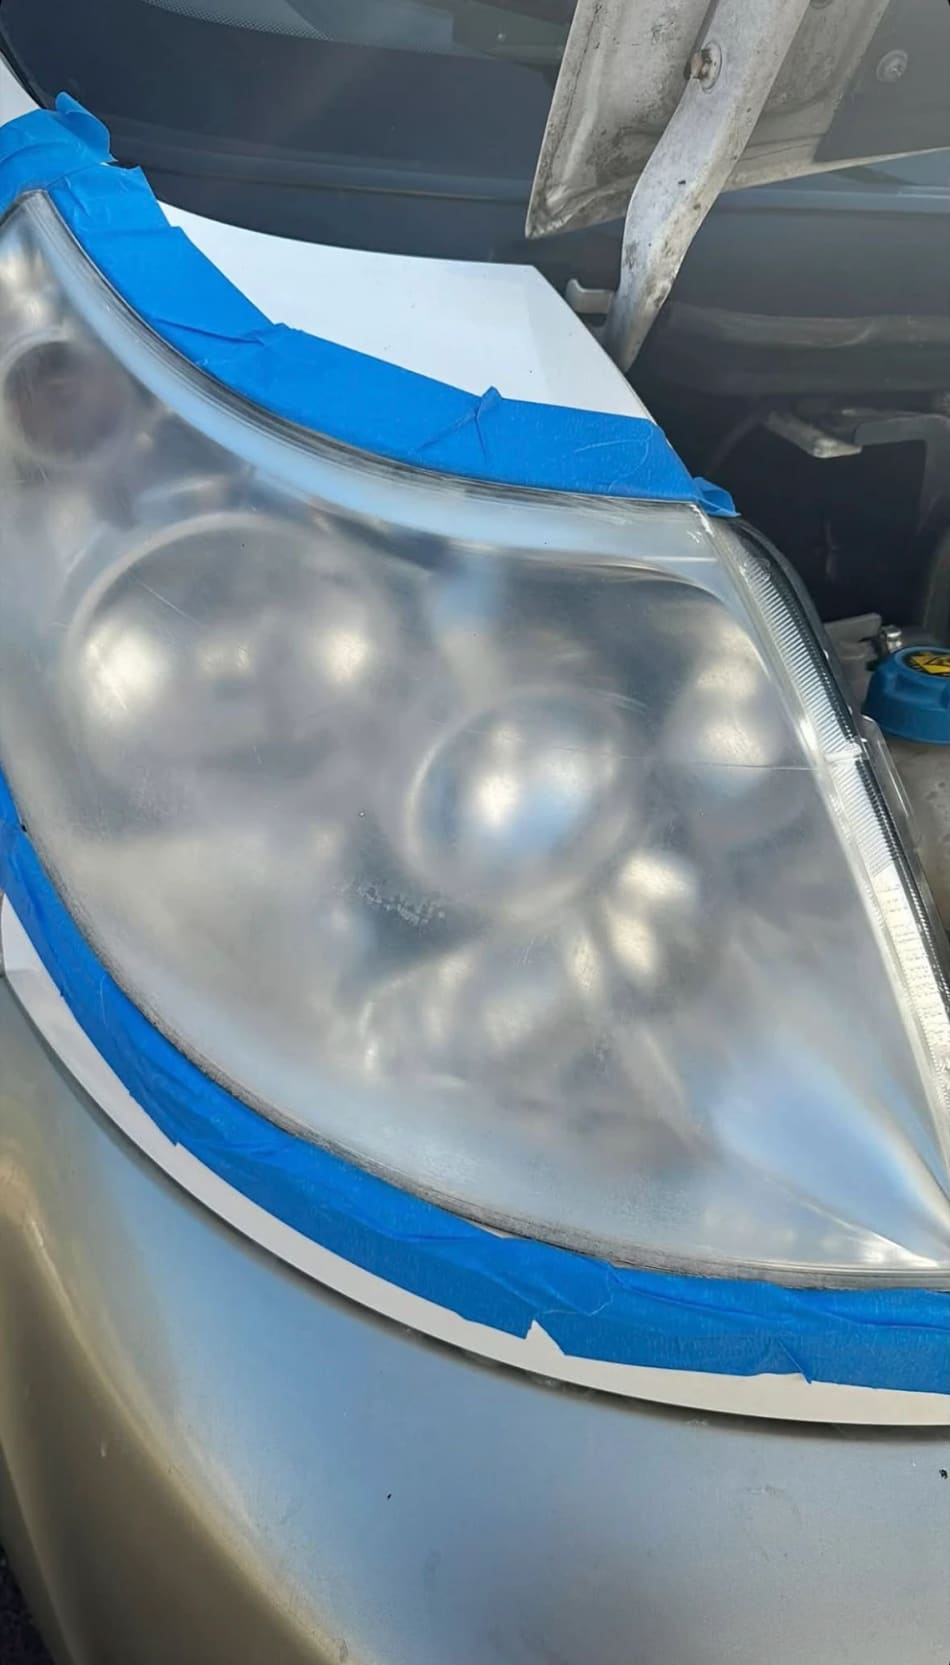
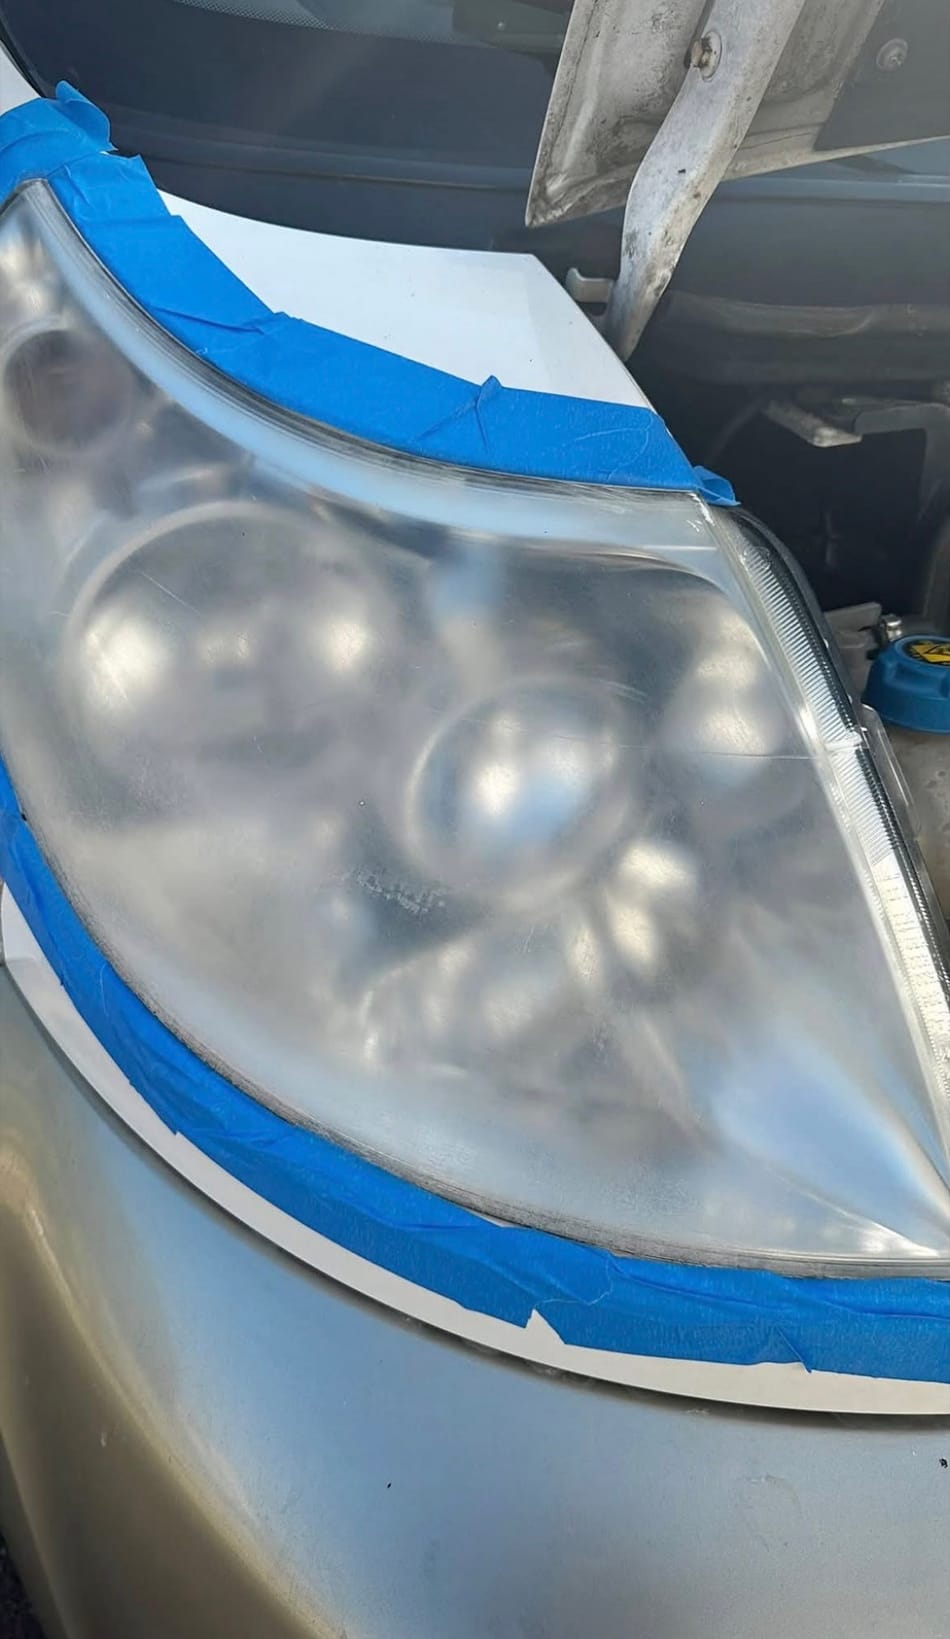
Corrige les paires phares, ajoute la nav rapide et réorganise options/galerie
- Corrige les paires avant/après de la section Phares : Réalisation 1 et 2
  montrent maintenant chacune le même phare avant/après (au lieu de
  véhicules différents), grâce aux nouvelles photos fournies
- Remplace la Toyota Yaris par la Porsche 911 dans la galerie Réalisations
- Ajoute "Rénovation phares" et "Traitement céramique" à la navigation
  (desktop + mobile), qui renvoient vers leurs sections respectives
- La barre d'onglets Avant/Après passe à la ligne (2-4 lignes selon la
  largeur) au lieu de nécessiter un défilement horizontal, pour que tous
  les exemples soient visibles d'un coup d'œil
- Précise que l'exemple "Extérieur 2" est un lustrage
- Déplace "Finitions pneus brillants" des options vers la prestation
  Extérieur (déjà incluse), synchronisé sur index.html et contact.html

diff --git a/index.html b/index.html
@@ -50,6 +50,8 @@
       <a href="#prestations">Prestations</a>
       <a href="#realisations">Réalisations</a>
       <a href="#avant-apres">Avant / Après</a>
+      <a href="#phares">Rénovation phares</a>
+      <a href="#ceramique">Traitement céramique</a>
       <a href="#avis">Avis</a>
       <a href="#tarifs">Tarifs</a>
       <a href="contact.html">Contact</a>
@@ -74,6 +76,8 @@
   <a href="#prestations">Prestations</a>
   <a href="#realisations">Réalisations</a>
   <a href="#avant-apres">Avant / Après</a>
+  <a href="#phares">Rénovation phares</a>
+  <a href="#ceramique">Traitement céramique</a>
   <a href="#avis">Avis</a>
   <a href="#tarifs">Tarifs</a>
   <a href="contact.html">Contact</a>
@@ -147,9 +151,9 @@
         <img src="assets/img/gallery/porsche-911-turbo-s-noir.jpg" alt="Porsche 911 Turbo S noire préparée par MGNclean" style="object-position:center 62%" loading="lazy" />
         <span class="gal-caption"><span><span class="tag">Porsche</span><h4>911 Turbo S</h4></span></span>
       </a>
-      <a class="gal-item" href="https://www.instagram.com/mgnclean44/" target="_blank" rel="noopener" data-cap="Toyota Yaris — nettoyage moteur avant / après.">
-        <img src="assets/img/gallery/toyota-yaris-moteur-avant-apres.jpg" alt="Compartiment moteur d'une Toyota Yaris nettoyé, comparatif avant / après" style="object-position:center 22%" loading="lazy" />
-        <span class="gal-caption"><span><span class="tag">Toyota</span><h4>Yaris — avant / après</h4></span></span>
+      <a class="gal-item" href="https://www.instagram.com/mgnclean44/" target="_blank" rel="noopener" data-cap="Porsche 911 noire préparée par MGNclean, face avant.">
+        <img src="assets/img/gallery/porsche-911-noire-face-avant.jpg" alt="Porsche 911 noire préparée par MGNclean, vue de face" style="object-position:center 55%" loading="lazy" />
+        <span class="gal-caption"><span><span class="tag">Porsche</span><h4>911</h4></span></span>
       </a>
       <a class="gal-item" href="https://www.instagram.com/mgnclean44/" target="_blank" rel="noopener" data-cap="Habitacle cuir blanc nettoyé d'une Porsche 911 Targa 4S.">
         <img src="assets/img/gallery/porsche-911-targa-4s-interieur-cuir.jpg" alt="Intérieur cuir blanc Porsche 911 Targa 4S" style="object-position:center 32%" loading="lazy" />
@@ -222,6 +226,7 @@
           <li><svg viewBox="0 0 24 24" fill="none" stroke="currentColor" stroke-width="2"><path d="M20 6 9 17l-5-5"/></svg>Nettoyage de la trappe à carburant</li>
           <li><svg viewBox="0 0 24 24" fill="none" stroke="currentColor" stroke-width="2"><path d="M20 6 9 17l-5-5"/></svg>Nettoyage des jantes</li>
           <li><svg viewBox="0 0 24 24" fill="none" stroke="currentColor" stroke-width="2"><path d="M20 6 9 17l-5-5"/></svg>Passages de roue nettoyés</li>
+          <li><svg viewBox="0 0 24 24" fill="none" stroke="currentColor" stroke-width="2"><path d="M20 6 9 17l-5-5"/></svg>Finitions pneus brillants</li>
         </ul>
       </div>
 
@@ -258,7 +263,6 @@
       <div class="opt"><b>20€</b><span>Effet hydrofuge pare-brise</span></div>
       <div class="opt"><b>10€</b><span>Nourrissant cuir</span></div>
       <div class="opt"><b>10€</b><span>Désodorisation / désinfection</span></div>
-      <div class="opt"><b>5€</b><span>Finitions pneus brillants</span></div>
       <div class="opt"><b>20€</b><span>Cire express</span></div>
       <div class="opt"><b>60€</b><span>Rénovation de phares ternis</span></div>
       <div class="opt"><b>Sur devis</b><span>Traitement céramique</span></div>
@@ -301,8 +305,8 @@
 
         <div class="ba-panel" data-ba-panel="ext2" id="ba-panel-ext2" role="tabpanel" aria-labelledby="ba-tab-ext2" tabindex="0" hidden>
           <div class="ba-slider" data-ba-slider>
-            <img class="ba-before" src="assets/img/gallery/ba-van-exterieur-avant.jpg" alt="Extérieur avant traitement, poignée protégée par ruban de masquage" style="object-position:center 40%" loading="lazy" />
-            <img class="ba-after" src="assets/img/gallery/ba-van-exterieur-apres.jpg" alt="Extérieur après traitement, carrosserie brillante" style="object-position:center 40%" loading="lazy" />
+            <img class="ba-before" src="assets/img/gallery/ba-van-exterieur-avant.jpg" alt="Extérieur avant lustrage, carrosserie terne" style="object-position:center 40%" loading="lazy" />
+            <img class="ba-after" src="assets/img/gallery/ba-van-exterieur-apres.jpg" alt="Extérieur après lustrage, carrosserie brillante" style="object-position:center 40%" loading="lazy" />
             <span class="ba-label l-before">Avant</span>
             <span class="ba-label l-after">Après</span>
             <div class="ba-handle">
@@ -440,7 +444,7 @@
       <div class="ba-panel active" data-ba-panel="phares1" id="ba-panel-phares1" role="tabpanel" aria-labelledby="ba-tab-phares1" tabindex="0">
         <div class="ba-slider" data-ba-slider>
           <img class="ba-before" src="assets/img/gallery/ba-phares-avant.jpg" alt="Phare oxydé et jauni avant rénovation" style="object-position:center 40%" loading="lazy" />
-          <img class="ba-after" src="assets/img/gallery/ba-phares-apres.jpg" alt="Phare poli et transparent après rénovation, protection anti-UV appliquée" style="object-position:center 40%" loading="lazy" />
+          <img class="ba-after" src="assets/img/gallery/ba-phares-apres.jpg" alt="Même phare, poli et transparent après rénovation" style="object-position:center 40%" loading="lazy" />
           <span class="ba-label l-before">Avant</span>
           <span class="ba-label l-after">Après</span>
           <div class="ba-handle">
@@ -453,8 +457,8 @@
 
       <div class="ba-panel" data-ba-panel="phares2" id="ba-panel-phares2" role="tabpanel" aria-labelledby="ba-tab-phares2" tabindex="0" hidden>
         <div class="ba-slider" data-ba-slider>
-          <img class="ba-before" src="assets/img/gallery/ba-phares2-avant.jpg" alt="Second phare oxydé, masquage de précision avant polissage" style="object-position:center 40%" loading="lazy" />
-          <img class="ba-after" src="assets/img/gallery/ba-phares-apres.jpg" alt="Phare poli et transparent après rénovation, protection anti-UV appliquée" style="object-position:center 40%" loading="lazy" />
+          <img class="ba-before" src="assets/img/gallery/ba-phares2-avant.jpg" alt="Phare oxydé, masquage de précision avant rénovation" style="object-position:center 40%" loading="lazy" />
+          <img class="ba-after" src="assets/img/gallery/ba-phares2-apres.jpg" alt="Même phare, poli et transparent après rénovation" style="object-position:center 40%" loading="lazy" />
           <span class="ba-label l-before">Avant</span>
           <span class="ba-label l-after">Après</span>
           <div class="ba-handle">

diff --git a/contact.html b/contact.html
@@ -103,7 +103,6 @@
             <label class="svc-check"><input type="checkbox" value="Effet hydrofuge pare-brise" data-price="20" /><span>Effet hydrofuge pare-brise</span><b>20€</b></label>
             <label class="svc-check"><input type="checkbox" value="Nourrissant cuir" data-price="10" /><span>Nourrissant cuir</span><b>10€</b></label>
             <label class="svc-check"><input type="checkbox" value="Désodorisation / désinfection" data-price="10" /><span>Désodorisation / désinfection</span><b>10€</b></label>
-            <label class="svc-check"><input type="checkbox" value="Finitions pneus brillants" data-price="5" /><span>Finitions pneus brillants</span><b>5€</b></label>
             <label class="svc-check"><input type="checkbox" value="Cire express" data-price="20" /><span>Cire express</span><b>20€</b></label>
             <label class="svc-check"><input type="checkbox" value="Rénovation de phares ternis" data-price="60" /><span>Rénovation de phares ternis</span><b>60€</b></label>
             <label class="svc-check"><input type="checkbox" value="Traitement céramique" data-price="0" data-devis="1" /><span>Traitement céramique</span><b>Sur devis</b></label>

diff --git a/assets/styles.css b/assets/styles.css
@@ -380,10 +380,8 @@ section{position:relative;z-index:1}
 }
 .ba-wrap > div{min-width:0}
 .ba-tabs{
-  display:flex;gap:10px;margin-bottom:18px;overflow-x:auto;
-  -webkit-overflow-scrolling:touch;scrollbar-width:none;padding-bottom:2px;
+  display:flex;flex-wrap:wrap;gap:10px;margin-bottom:18px;
 }
-.ba-tabs::-webkit-scrollbar{display:none}
 .ba-tab{
   padding:9px 20px;border-radius:999px;font-size:13.5px;font-weight:600;color:var(--muted);
   border:1px solid var(--line);background:transparent;transition:.25s;
